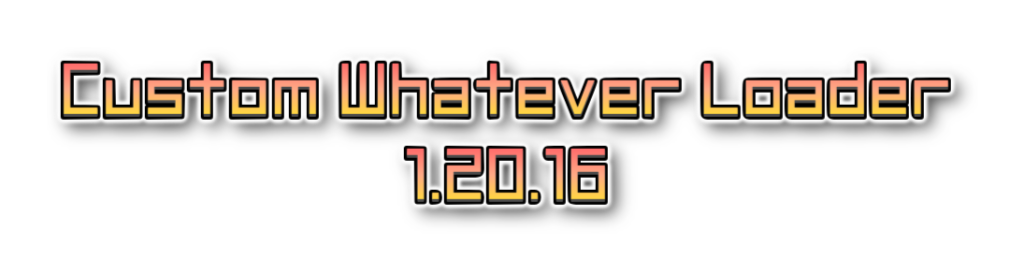
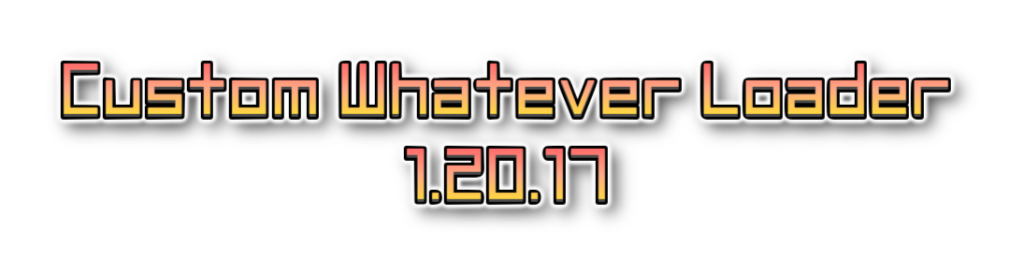
chore(CWL): bump version

diff --git a/CustomWhateverLoader/Loader/CustomWhateverLoader.cs b/CustomWhateverLoader/Loader/CustomWhateverLoader.cs
@@ -9,7 +9,7 @@ public static class ModInfo
     // for legacy reason
     public const string Guid = "dk.elinplugins.customdialogloader";
     public const string Name = "Custom Whatever Loader";
-    public const string Version = "1.20.16";
+    public const string Version = "1.20.17";
 }
 
 [BepInPlugin(ModInfo.Guid, ModInfo.Name, ModInfo.Version)]
